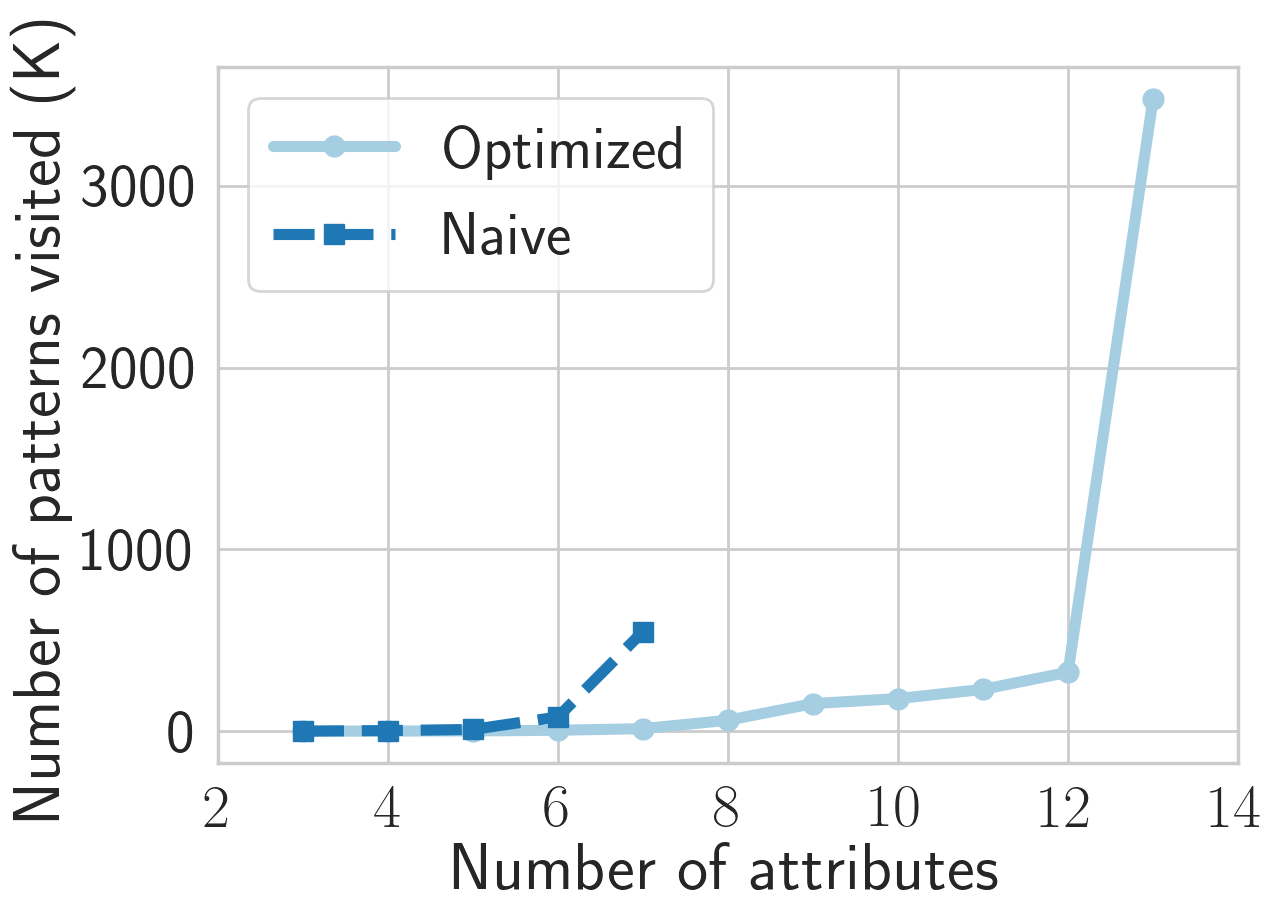
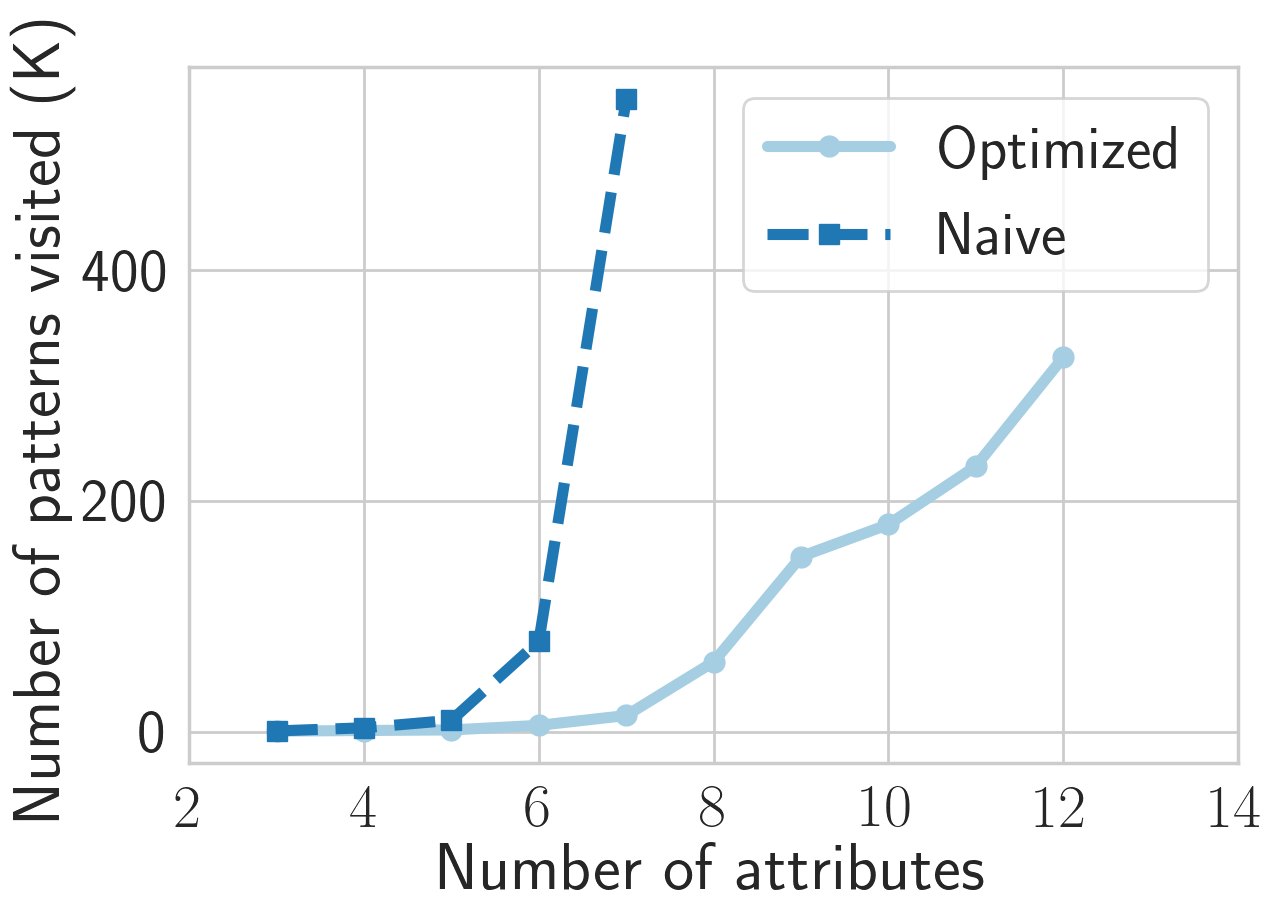
acc, adult data, num att

diff --git a/Coding/Experiments/AccuracyFairness/AdultData/num_attributes_3_20211020.py b/Coding/Experiments/AccuracyFairness/AdultData/num_attributes_3_20211020.py
@@ -79,7 +79,8 @@ def GridSearch(original_data, mis_data, all_attributes, thc, number_attributes, 
                                                                               mis_class_data, tha,
                                                                               thc, time_limit)
         print("newalg, time = {} s, num_calculation = {}".format(execution_time1, num_calculation1))
-
+        if execution_time1 > time_limit:
+            raise Exception("new alg overtime")
         print("{} patterns with low accuracy: \n {}".format(len(pattern_with_low_accuracy1), pattern_with_low_accuracy1))
         return execution_time1, num_calculation1, 0, 0, pattern_with_low_accuracy1
 
@@ -142,7 +143,7 @@ time_limit = 10*60
 # with 8 att, naive alg over time (longer than 10-min time-out)
 num_att_max_naive = 8
 num_att_min = 3
-num_att_max = 14
+num_att_max = 13 # new alg over time with 13 attributes
 
 execution_time1 = list()
 execution_time2 = list()
@@ -217,7 +218,7 @@ output_file.write("execution time\n")
 for n in range(num_att_min, num_att_max_naive):
     output_file.write('{} {} {}\n'.format(n, execution_time1[n-num_att_min], execution_time2[n-num_att_min]))
 for n in range(num_att_max_naive, num_att_max):
-    output_file.write('{} {}\n'.format(n, execution_time1[n - num_att_max_naive]))
+    output_file.write('{} {}\n'.format(n, execution_time1[n - num_att_min]))
 #output_file.write('\n'.join('{} {} {}'.format(index + num_att_min, x, y) for index, x, y in enumerate(execution_time1) and execution_time2))
 
 
@@ -225,7 +226,7 @@ output_file.write("\n\nnumber of patterns checked\n")
 for n in range(num_att_min, num_att_max_naive):
     output_file.write('{} {} {}\n'.format(n, num_calculation1[n-num_att_min], num_calculation2[n-num_att_min]))
 for n in range(num_att_max_naive, num_att_max):
-    output_file.write('{} {}\n'.format(n, num_calculation1[n-num_att_max_naive]))
+    output_file.write('{} {}\n'.format(n, num_calculation1[n-num_att_min]))
 
 #output_file.write('\n'.join('{} {} {}'.format(index + num_att_min, x, y) for index, x, y in enumerate(num_calculation1) and num_calculation2))
 
